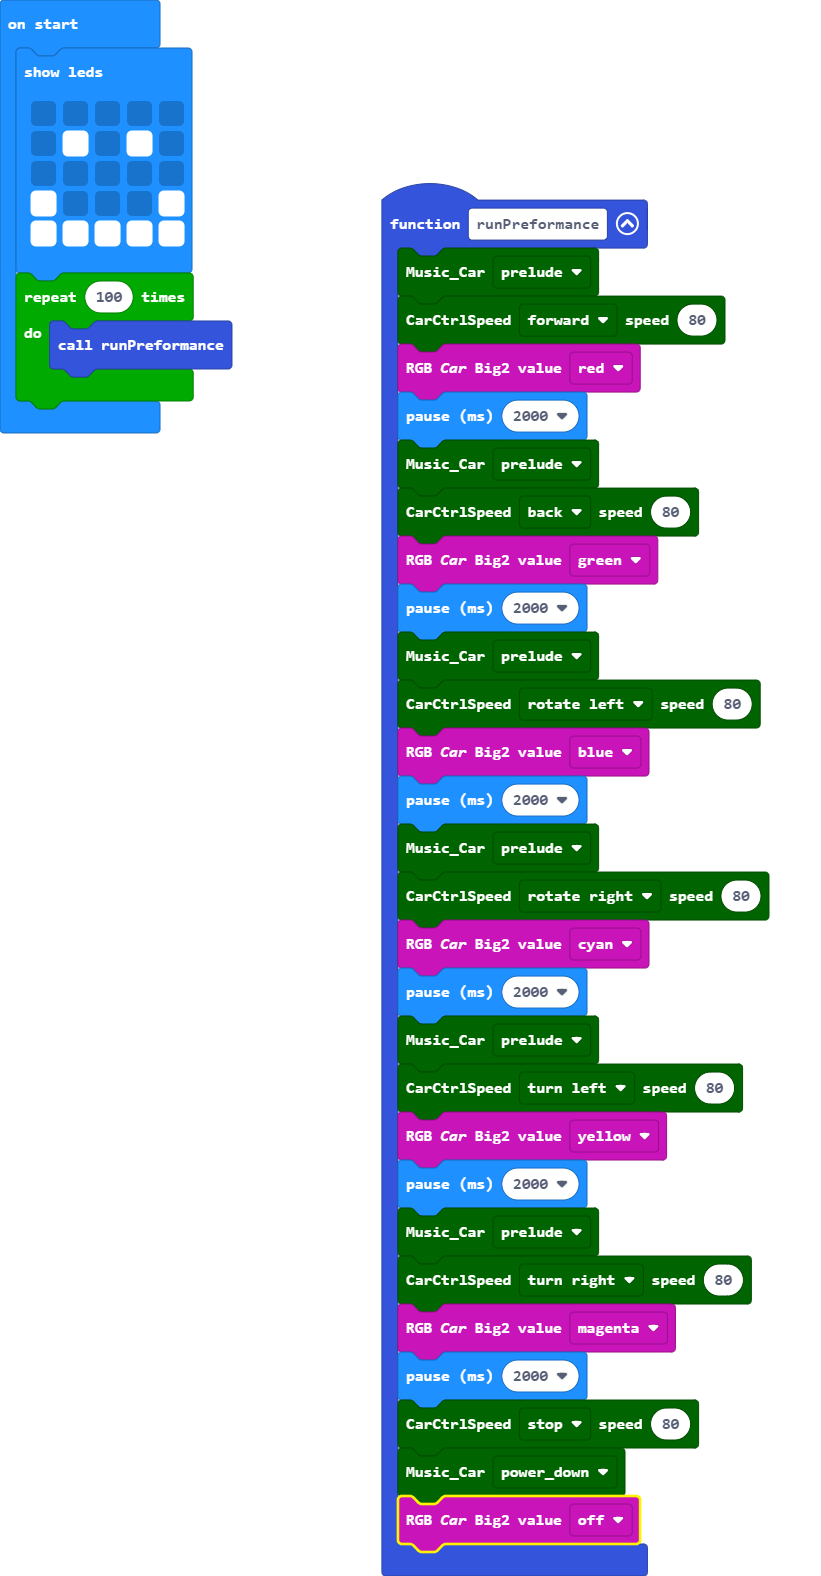
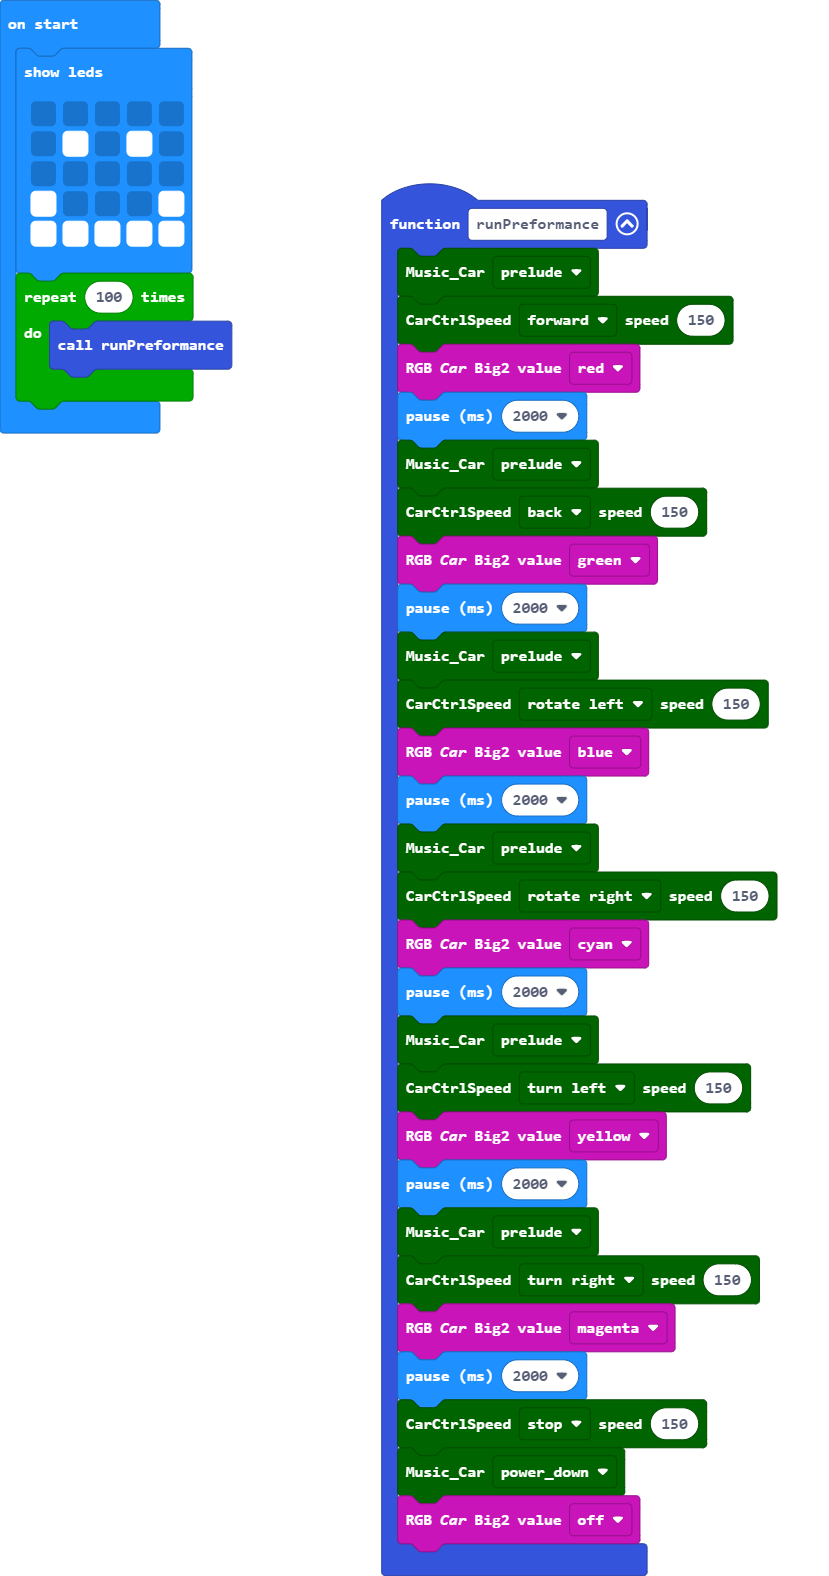
Made him SANIC (speed = 80 --> 150)

diff --git a/main.ts b/main.ts
@@ -1,29 +1,29 @@
 function runPreformance () {
     mbit_Robot.Music_Car(mbit_Robot.enMusic.prelude)
-    mbit_Robot.CarCtrlSpeed(mbit_Robot.CarState.Car_Run, 80)
+    mbit_Robot.CarCtrlSpeed(mbit_Robot.CarState.Car_Run, 150)
     mbit_Robot.RGB_Car_Big2(mbit_Robot.enColor.Red)
     basic.pause(2000)
     mbit_Robot.Music_Car(mbit_Robot.enMusic.prelude)
-    mbit_Robot.CarCtrlSpeed(mbit_Robot.CarState.Car_Back, 80)
+    mbit_Robot.CarCtrlSpeed(mbit_Robot.CarState.Car_Back, 150)
     mbit_Robot.RGB_Car_Big2(mbit_Robot.enColor.Green)
     basic.pause(2000)
     mbit_Robot.Music_Car(mbit_Robot.enMusic.prelude)
-    mbit_Robot.CarCtrlSpeed(mbit_Robot.CarState.Car_SpinLeft, 80)
+    mbit_Robot.CarCtrlSpeed(mbit_Robot.CarState.Car_SpinLeft, 150)
     mbit_Robot.RGB_Car_Big2(mbit_Robot.enColor.Blue)
     basic.pause(2000)
     mbit_Robot.Music_Car(mbit_Robot.enMusic.prelude)
-    mbit_Robot.CarCtrlSpeed(mbit_Robot.CarState.Car_SpinRight, 80)
+    mbit_Robot.CarCtrlSpeed(mbit_Robot.CarState.Car_SpinRight, 150)
     mbit_Robot.RGB_Car_Big2(mbit_Robot.enColor.Cyan)
     basic.pause(2000)
     mbit_Robot.Music_Car(mbit_Robot.enMusic.prelude)
-    mbit_Robot.CarCtrlSpeed(mbit_Robot.CarState.Car_Left, 80)
+    mbit_Robot.CarCtrlSpeed(mbit_Robot.CarState.Car_Left, 150)
     mbit_Robot.RGB_Car_Big2(mbit_Robot.enColor.Yellow)
     basic.pause(2000)
     mbit_Robot.Music_Car(mbit_Robot.enMusic.prelude)
-    mbit_Robot.CarCtrlSpeed(mbit_Robot.CarState.Car_Right, 80)
+    mbit_Robot.CarCtrlSpeed(mbit_Robot.CarState.Car_Right, 150)
     mbit_Robot.RGB_Car_Big2(mbit_Robot.enColor.Pinkish)
     basic.pause(2000)
-    mbit_Robot.CarCtrlSpeed(mbit_Robot.CarState.Car_Stop, 80)
+    mbit_Robot.CarCtrlSpeed(mbit_Robot.CarState.Car_Stop, 150)
     mbit_Robot.Music_Car(mbit_Robot.enMusic.power_down)
     mbit_Robot.RGB_Car_Big2(mbit_Robot.enColor.OFF)
 }
